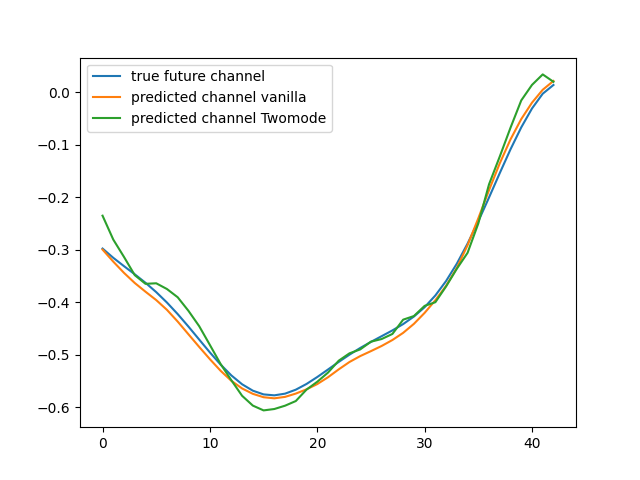
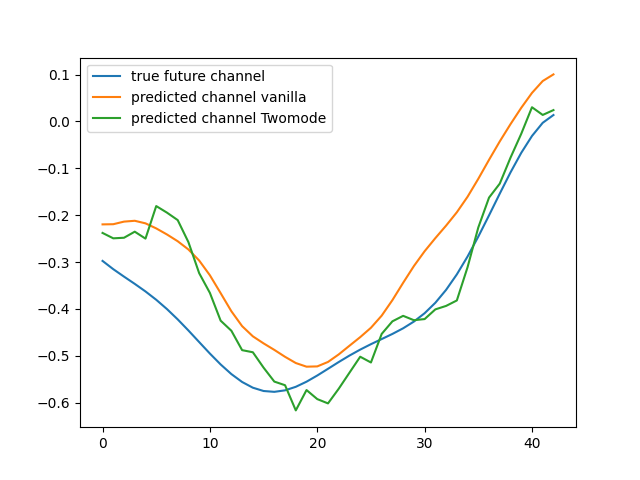
twomode ESN (working)

diff --git a/dmimo/channel/twommode_esn_pred.py b/dmimo/channel/twommode_esn_pred.py
@@ -33,12 +33,12 @@ class twomode_esn_pred:
         else:
             self.N_in_right = self.N_t
 
-        self.d_left = d_left
-        self.d_right = d_right
+        self.d_left = self.N_in_left # TODO: currently just basing on the size of the input. try other configurations
+        self.d_right = self.N_in_right
 
-        if d_left is None:
+        if self.d_left is None:
             self.d_left = self.N_r
-        if d_right is None:
+        if self.d_right is None:
             self.d_right = self.N_t        
 
         self.init_weights()

diff --git a/sims/sim_dmimo_chanpred.py b/sims/sim_dmimo_chanpred.py
@@ -74,7 +74,7 @@ if __name__ == "__main__":
         drop_idx = '2'
         rx_ues_arr = [3]
         vector_inputs = 'tx_ants' # tx_ants, rx_ants, none, all
-        csi_delays = [1, 2, 3, 4, 5, 6, 7, 8]
+        csi_delays = [4, 5, 6, 7, 8]
     cfg.ns3_folder = "ns3/channels_" + mobility + '_' + drop_idx + '/'
     rc_config.lr = 0.01
     rc_config.num_epochs = 50
